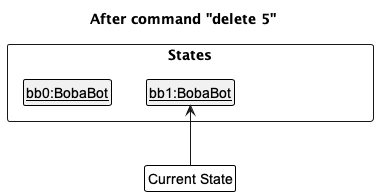
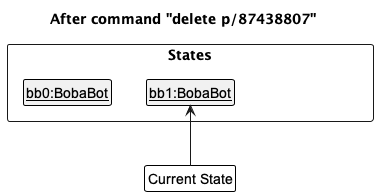
Update DG for Undo/Redo Commands

Changed region(s): [[0.1164, 0.0612, 0.8439, 0.1531]]

diff --git a/docs/DeveloperGuide.md b/docs/DeveloperGuide.md
@@ -348,42 +348,44 @@ or just search for occurrence of keywords (including name) vaguely.
 * **Future Extension:** bobaBot can support priority in listing of search results.
 
 
-### \[Proposed\] Undo/redo feature
+### \[Insert Numbering\] Undo/Redo feature
 
-#### Proposed Implementation
+#### Implementation
 
-The proposed undo/redo mechanism is facilitated by `VersionedBobaBot`. It extends `BobaBot` with an undo/redo history, stored internally as an `bobaBotStateList` and `currentStatePointer`. Additionally, it implements the following operations:
+The undo/redo mechanism is facilitated by `VersionedBobaBot`. It extends `BobaBot` with an undo/redo history, stored internally as an `bobaBotStateList` and `currentStatePointer`. Additionally, it implements the following operations:
 
-* `VersionedBobaBot#commit()` — Saves the current address book state in its history.
-* `VersionedBobaBot#undo()` — Restores the previous address book state from its history.
-* `VersionedBobaBot#redo()` — Restores a previously undone address book state from its history.
+* `VersionedBobaBot#commit()` — Saves the current bobaBot state in its history if it differs from the previously saved state.
+* `VersionedBobaBot#undo()` — Restores the previous bobaBot state from its history as long as it is not in its initialised state.
+* `VersionedBobaBot#redo()` — Restores a previously undone bobaBot state from its history as long as it is not in the most updated state.
 
 These operations are exposed in the `BobaBotModel` interface as `BobaBotModel#commitBobaBot()`, `BobaBotModel#undoBobaBot()` and `BobaBotModel#redoBobaBot()` respectively.
 
+<div markdown="span" class="alert alert-info">:information_source: **Note:** The bobaBotStatelist only keeps track of 20 of the most recent state changes! This is by design to minimise the storage space required for bobaBot application. However, you may configure the limit depending on your needs.
+
 Given below is an example usage scenario and how the undo/redo mechanism behaves at each step.
 
-Step 1. The user launches the application for the first time. The `VersionedBobaBot` will be initialized with the initial address book state, and the `currentStatePointer` pointing to that single address book state.
+Step 1. The user launches the application for the first time. The `VersionedBobaBot` will be initialized with the initial bobaBot state, and the `currentStatePointer` pointing to that single bobaBot state.
 
 ![UndoRedoState0](images/UndoRedoState0.png)
 
-Step 2. The user executes `delete 5` command to delete the 5th customer in the address book. The `delete` command calls `BobaBotModel#commitBobaBot()`, causing the modified state of the address book after the `delete 5` command executes to be saved in the `bobaBotStateList`, and the `currentStatePointer` is shifted to the newly inserted address book state.
+Step 2. The user executes `delete p/87438807` command to delete the customer with phone number `87438807` which corresponds to `Alex Yeoh` from the bobaBot. The `delete` command calls `BobaBotModel#commitBobaBot()`, causing the modified state of the bobaBot after the `delete p/87438807` command executes to be saved in the `bobaBotStateList`, and the `currentStatePointer` is shifted to the newly inserted bobaBot state.
 
 ![UndoRedoState1](images/UndoRedoState1.png)
 
-Step 3. The user executes `add n/David …` to add a new customer. The `add` command also calls `BobaBotModel#commitBobaBot()`, causing another modified address book state to be saved into the `bobaBotStateList`.
+Step 3. The user executes `add n/David …` to add a new customer. The `add` command also calls `BobaBotModel#commitBobaBot()`, causing another modified bobaBot to be saved into the `bobaBotStateList`.
 
 ![UndoRedoState2](images/UndoRedoState2.png)
 
-<div markdown="span" class="alert alert-info">:information_source: **Note:** If a command fails its execution, it will not call `BobaBotModel#commitBobaBot()`, so the address book state will not be saved into the `bobaBotStateList`.
+<div markdown="span" class="alert alert-info">:information_source: **Note:** If a command fails its execution, it will not call `BobaBotModel#commitBobaBot()`, so the bobaBot state will not be saved into the `bobaBotStateList`.
 
 </div>
 
-Step 4. The user now decides that adding the customer was a mistake, and decides to undo that action by executing the `undo` command. The `undo` command will call `BobaBotModel#undoBobaBot()`, which will shift the `currentStatePointer` once to the left, pointing it to the previous address book state, and restores the address book to that state.
+Step 4. The user now decides that adding the customer was a mistake, and decides to undo that action by executing the `undo` command. The `undo` command will call `BobaBotModel#undoBobaBot()`, which will shift the `currentStatePointer` once to the left, pointing it to the previous bobaBot state, and restores the bobaBot to that state.
 
 ![UndoRedoState3](images/UndoRedoState3.png)
 
-<div markdown="span" class="alert alert-info">:information_source: **Note:** If the `currentStatePointer` is at index 0, pointing to the initial BobaBot state, then there are no previous BobaBot states to restore. The `undo` command uses `BobaBotModel#canUndoBobaBot()` to check if this is the case. If so, it will return an error to the user rather
-than attempting to perform the undo.
+<div markdown="span" class="alert alert-info">:information_source: **Note:** If the `currentStatePointer` is at index 0, pointing to the initial bobaBot state, then there are no previous bobaBot states to restore. The `undo` command uses `BobaBotModel#canUndoBobaBot()` to check if this is the case. If so, it will return an error to the user rather
+than attempting to perform the `undo` command.
 
 </div>
 
@@ -395,17 +397,17 @@ The following sequence diagram shows how the undo operation works:
 
 </div>
 
-The `redo` command does the opposite — it calls `BobaBotModel#redoBobaBot()`, which shifts the `currentStatePointer` once to the right, pointing to the previously undone state, and restores the address book to that state.
+The `redo` command does the opposite — it calls `BobaBotModel#redoBobaBot()`, which shifts the `currentStatePointer` once to the right, pointing to the previously undone state, and restores the bobaBot to that state.
 
-<div markdown="span" class="alert alert-info">:information_source: **Note:** If the `currentStatePointer` is at index `bobaBotStateList.size() - 1`, pointing to the latest address book state, then there are no undone BobaBot states to restore. The `redo` command uses `BobaBotModel#canRedoBobaBot()` to check if this is the case. If so, it will return an error to the user rather than attempting to perform the redo.
+<div markdown="span" class="alert alert-info">:information_source: **Note:** If the `currentStatePointer` is at index `bobaBotStateList.size() - 1`, pointing to the latest bobaBot state, then there are no undone bobaBot states to restore. The `redo` command uses `BobaBotModel#canRedoBobaBot()` to check if this is the case. If so, it will return an error to the user rather than attempting to perform the redo.
 
 </div>
 
-Step 5. The user then decides to execute the command `list`. Commands that do not modify the address book, such as `list`, will usually not call `BobaBotModel#commitBobaBot()`, `BobaBotModel#undoBobaBot()` or `BobaBotModel#redoBobaBot()`. Thus, the `bobaBotStateList` remains unchanged.
+Step 5. The user then decides to execute the command `list`. Commands that do not modify the bobaBot, such as `list`, will usually not call `BobaBotModel#commitBobaBot()`, `BobaBotModel#undoBobaBot()` or `BobaBotModel#redoBobaBot()`. Thus, the `bobaBotStateList` remains unchanged.
 
 ![UndoRedoState4](images/UndoRedoState4.png)
 
-Step 6. The user executes `clear`, which calls `BobaBotModel#commitBobaBot()`. Since the `currentStatePointer` is not pointing at the end of the `bobaBotStateList`, all address book states after the `currentStatePointer` will be purged. Reason: It no longer makes sense to redo the `add n/David …` command. This is the behavior that most modern desktop applications follow.
+Step 6. The user executes `clear`, which calls `BobaBotModel#commitBobaBot()`. Since the `currentStatePointer` is not pointing at the end of the `bobaBotStateList`, all bobaBot states after the `currentStatePointer` will be purged. Reason: It no longer makes sense to redo the `add n/David …` command. This is the behavior that most modern desktop applications follow.
 
 ![UndoRedoState5](images/UndoRedoState5.png)
 
@@ -417,7 +419,7 @@ The following activity diagram summarizes what happens when a user executes a ne
 
 **Aspect: How undo & redo executes:**
 
-* **Alternative 1 (current choice):** Saves the entire address book.
+* **Alternative 1 (current choice):** Saves the entire bobaBot.
   * Pros: Easy to implement.
   * Cons: May have performance issues in terms of memory usage.
 
